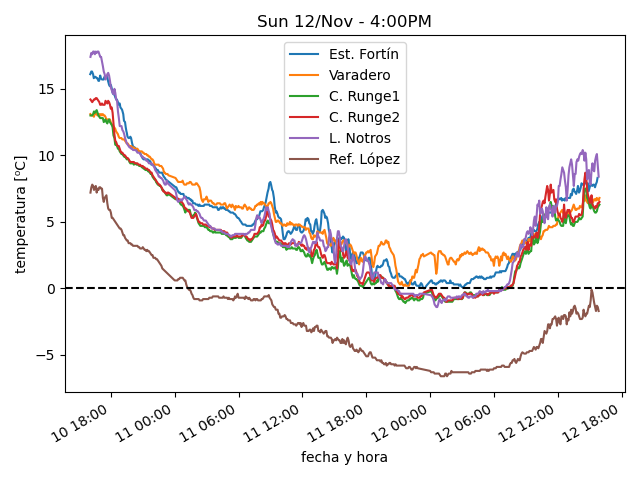
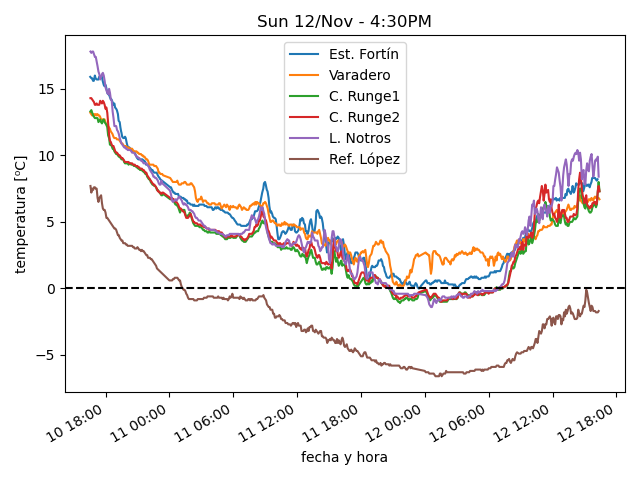
actualiza datos

diff --git a/estaciones/estacion1.html b/estaciones/estacion1.html
@@ -18,32 +18,32 @@
     </tr>
     <tr>
      <td class="stats_data">
-      3:43PM
+      4:13PM
      </td>
     </tr>
     <tr>
      <td class="stats_data">
-      8.3⁰C
+      8.2⁰C
      </td>
     </tr>
     <tr>
      <td class="stats_data">
-      -1.9⁰C
+      -1.7⁰C
      </td>
     </tr>
     <tr>
      <td class="stats_data">
-      48.5%
+      50.0%
      </td>
     </tr>
     <tr>
      <td class="stats_data">
-      1019.3hPa
+      1018.96hPa
      </td>
     </tr>
     <tr>
      <td class="stats_data">
-      25.0/32.2 km/hr W
+      19.3/27.4 km/hr WSW
      </td>
     </tr>
     <tr>
@@ -53,12 +53,12 @@
     </tr>
     <tr>
      <td class="stats_data">
-      4.5
+      3.8
      </td>
     </tr>
     <tr>
      <td class="stats_data">
-      819.0 W/m²
+      763.0 W/m²
      </td>
     </tr>
    </tbody>

diff --git a/estaciones/estacion3.html b/estaciones/estacion3.html
@@ -18,32 +18,32 @@
     </tr>
     <tr>
      <td class="stats_data">
-      3:54PM
+      4:24PM
      </td>
     </tr>
     <tr>
      <td class="stats_data">
-      6.3⁰C
+      7.3⁰C
      </td>
     </tr>
     <tr>
      <td class="stats_data">
-      -0.5⁰C
+      0.0⁰C
      </td>
     </tr>
     <tr>
      <td class="stats_data">
-      62.0%
+      59.4%
      </td>
     </tr>
     <tr>
      <td class="stats_data">
-      1008.43hPa
+      1008.23hPa
      </td>
     </tr>
     <tr>
      <td class="stats_data">
-      5.5/8.2 km/hr WNW
+      8.3/12.1 km/hr WNW
      </td>
     </tr>
     <tr>
@@ -53,12 +53,12 @@
     </tr>
     <tr>
      <td class="stats_data">
-      3.0
+      8.0
      </td>
     </tr>
     <tr>
      <td class="stats_data">
-      293.6 W/m²
+      768.3 W/m²
      </td>
     </tr>
    </tbody>

diff --git a/estaciones/estacion4.html b/estaciones/estacion4.html
@@ -18,32 +18,32 @@
     </tr>
     <tr>
      <td class="stats_data">
-      3:54PM
+      4:24PM
      </td>
     </tr>
     <tr>
      <td class="stats_data">
-      6.5⁰C
+      7.3⁰C
      </td>
     </tr>
     <tr>
      <td class="stats_data">
-      -1.0⁰C
+      -0.8⁰C
      </td>
     </tr>
     <tr>
      <td class="stats_data">
-      58.5%
+      56.6%
      </td>
     </tr>
     <tr>
      <td class="stats_data">
-      1017.34hPa
+      1016.83hPa
      </td>
     </tr>
     <tr>
      <td class="stats_data">
-      2.7/4.0 km/hr SSW
+      3.8/5.8 km/hr SW
      </td>
     </tr>
     <tr>
@@ -53,12 +53,12 @@
     </tr>
     <tr>
      <td class="stats_data">
-      2.0
+      1.0
      </td>
     </tr>
     <tr>
      <td class="stats_data">
-      284.6 W/m²
+      149.6 W/m²
      </td>
     </tr>
    </tbody>

diff --git a/estaciones/estacion6.html b/estaciones/estacion6.html
@@ -18,7 +18,7 @@
     </tr>
     <tr>
      <td class="stats_data">
-      3:50PM
+      4:20PM
      </td>
     </tr>
     <tr>
@@ -28,27 +28,27 @@
     </tr>
     <tr>
      <td class="stats_data">
-      -4.7⁰C
+      -3.8⁰C
      </td>
     </tr>
     <tr>
      <td class="stats_data">
-      80.0%
+      85.0%
      </td>
     </tr>
     <tr>
      <td class="stats_data">
-      1023.71hPa
+      1023.64hPa
      </td>
     </tr>
     <tr>
      <td class="stats_data">
-      17.7/30.6 km/hr SSE
+      9.7/27.4 km/hr SSE
      </td>
     </tr>
     <tr>
      <td class="stats_data">
-      2.03 / 0.51 mm
+      2.03 / 0.25 mm
      </td>
     </tr>
     <tr>
@@ -58,7 +58,7 @@
     </tr>
     <tr>
      <td class="stats_data">
-      891.0 W/m²
+      883.0 W/m²
      </td>
     </tr>
    </tbody>

diff --git a/estaciones/estacion2.html b/estaciones/estacion2.html
@@ -18,12 +18,12 @@
     </tr>
     <tr>
      <td class="stats_data">
-      3:54PM
+      4:24PM
      </td>
     </tr>
     <tr>
      <td class="stats_data">
-      6.8⁰C
+      6.7⁰C
      </td>
     </tr>
     <tr>
@@ -33,17 +33,17 @@
     </tr>
     <tr>
      <td class="stats_data">
-      68.0%
+      68.2%
      </td>
     </tr>
     <tr>
      <td class="stats_data">
-      1023.43hPa
+      1022.72hPa
      </td>
     </tr>
     <tr>
      <td class="stats_data">
-      32.1/37.4 km/hr NW
+      39.1/46.4 km/hr NW
      </td>
     </tr>
     <tr>
@@ -58,7 +58,7 @@
     </tr>
     <tr>
      <td class="stats_data">
-      1001.2 W/m²
+      941.7 W/m²
      </td>
     </tr>
    </tbody>

diff --git a/estaciones/estacion5.html b/estaciones/estacion5.html
@@ -18,7 +18,7 @@
     </tr>
     <tr>
      <td class="stats_data">
-      3:50PM
+      4:20PM
      </td>
     </tr>
     <tr>
@@ -28,17 +28,17 @@
     </tr>
     <tr>
      <td class="stats_data">
-      0.5⁰C
+      0.4⁰C
      </td>
     </tr>
     <tr>
      <td class="stats_data">
-      58.0%
+      57.0%
      </td>
     </tr>
     <tr>
      <td class="stats_data">
-      1019.91hPa
+      1019.64hPa
      </td>
     </tr>
     <tr>
